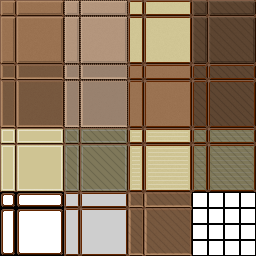
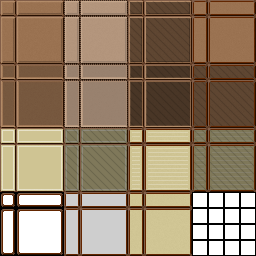
Refactor toggle button texture mapping: update locked and unpressed states, enhance hover support, and adjust JSON configuration for button visuals

Changed region(s): [[0.5, 0.0, 1.0, 0.5], [0.5, 0.75, 0.75, 1.0]]

diff --git a/gui_builder_app/app.py b/gui_builder_app/app.py
@@ -2161,21 +2161,24 @@ class GuiBuilderApp:
 
         if ent.tool == Tool.BUTTON_TOGGLE:
             mapping = ENTRY_TOOL_MODULES.get(ent.tool, {})
+
+            # Keys: base (pressed/on), unpressed (off), hover_base, hover_unpressed, pressed_locked, unpressed_locked
             if locked:
-                if bool(ent.active):
-                    return str(
-                        mapping.get("locked_pressed")
-                        or mapping.get("disabled")
-                        or mapping.get("on")
-                        or mapping.get("base")
-                        or ""
-                    )
-                return str(mapping.get("disabled") or mapping.get("base") or "")
+                return str((mapping.get("pressed_locked") if bool(ent.active) else mapping.get("unpressed_locked")) or mapping.get("base") or "")
+
             if disabled:
-                return str(mapping.get("disabled") or mapping.get("base") or "")
+                return str(mapping.get("unpressed_locked") or mapping.get("pressed_locked") or mapping.get("unpressed") or "")
+
             if bool(ent.active):
-                return str(mapping.get("on") or mapping.get("pressed") or mapping.get("base") or "")
-            return str(mapping.get("hover" if hovered else "base") or "")
+                # Active/pressed state
+                if hovered and mapping.get("hover_base") is not None:
+                    return str(mapping.get("hover_base") or "")
+                return str(mapping.get("base") or mapping.get("unpressed") or "")
+
+            # Not active (unpressed/off)
+            if hovered and mapping.get("hover_unpressed") is not None:
+                return str(mapping.get("hover_unpressed") or "")
+            return str(mapping.get("unpressed") or mapping.get("base") or "")
 
         # Non-buttons: no hover variants. (Optional locked variant via meta.)
         mapping = ENTRY_TOOL_MODULES.get(ent.tool) or {}
@@ -2891,7 +2894,8 @@ class GuiBuilderApp:
             return False
 
         modules = ENTRY_TOOL_MODULES.get(ent.tool) or {}
-        base_module = modules.get("base")
+        # Toggle buttons use 'unpressed' or 'base' as the base visual.
+        base_module = modules.get("base") if ent.tool != Tool.BUTTON_TOGGLE else (modules.get("unpressed") or modules.get("base"))
         if not base_module:
             return False
 
@@ -2913,14 +2917,15 @@ class GuiBuilderApp:
         Layout (each cell is the component's own w*h in pixels):
         - Standard button: base | locked
                          hover | locked_hover (usually same as locked)
-        - Toggle button:   off  | on
-                         hover | disabled
+                - Toggle button:   off        | on
+                                                 hover_*     | disabled (locked)
+                    Where hover_* resolves to hover_on or hover_off depending on current ent.active
 
         Missing variants fall back to base so the JS can use a consistent layout.
         """
 
         modules = ENTRY_TOOL_MODULES.get(ent.tool) or {}
-        base_module = modules.get("base")
+        base_module = modules.get("base") if ent.tool != Tool.BUTTON_TOGGLE else (modules.get("unpressed") or modules.get("base"))
         if not base_module:
             return None
 
@@ -2946,27 +2951,34 @@ class GuiBuilderApp:
             return out
 
         if ent.tool == Tool.BUTTON_TOGGLE:
-            hover_module = modules.get("hover") or base_module
-            on_module = modules.get("on") or modules.get("pressed") or base_module
-            disabled_module = modules.get("disabled") or modules.get("pressed_hover") or on_module
+            # Keys: base (pressed/on), unpressed (off), hover_base, hover_unpressed, pressed_locked, unpressed_locked
+            pressed_module = modules.get("base") or base_module
+            unpressed_module = base_module  # Already set to unpressed or base above
+            
+            # Hover depends on active state
+            hover_module = (modules.get("hover_base") if bool(ent.active) else modules.get("hover_unpressed")) or base_module
 
             meta = ent.meta if isinstance(ent.meta, dict) else {}
-            if bool(meta.get("locked", False)) and bool(ent.active):
-                disabled_module = modules.get("locked_pressed") or disabled_module
+            if bool(meta.get("locked", False)):
+                disabled_module = modules.get("pressed_locked") if bool(ent.active) else modules.get("unpressed_locked")
+            else:
+                # Fallback to any locked variant or pressed_module
+                disabled_module = modules.get("pressed_locked") or modules.get("unpressed_locked") or pressed_module
 
-            off_img = self._compose_entry_variant_image(atlas, ent, str(base_module))
-            if off_img is None:
+            # Block layout: unpressed (TL), hover (BL), pressed (TR), disabled (BR)
+            unpressed_img = self._compose_entry_variant_image(atlas, ent, str(unpressed_module))
+            if unpressed_img is None:
                 return None
-            hover_img = self._compose_entry_variant_image(atlas, ent, str(hover_module)) or off_img
-            on_img = self._compose_entry_variant_image(atlas, ent, str(on_module)) or off_img
-            disabled_img = self._compose_entry_variant_image(atlas, ent, str(disabled_module)) or on_img
+            hover_img = self._compose_entry_variant_image(atlas, ent, str(hover_module)) or unpressed_img
+            pressed_img = self._compose_entry_variant_image(atlas, ent, str(pressed_module)) or unpressed_img
+            disabled_img = self._compose_entry_variant_image(atlas, ent, str(disabled_module)) or pressed_img
 
-            w = int(off_img.width())
-            h = int(off_img.height())
+            w = int(unpressed_img.width())
+            h = int(unpressed_img.height())
             out = tk.PhotoImage(width=w * 2, height=h * 2)
-            out.tk.call(out, "copy", off_img, "-from", 0, 0, w, h, "-to", 0, 0)
+            out.tk.call(out, "copy", unpressed_img, "-from", 0, 0, w, h, "-to", 0, 0)
             out.tk.call(out, "copy", hover_img, "-from", 0, 0, w, h, "-to", 0, h)
-            out.tk.call(out, "copy", on_img, "-from", 0, 0, w, h, "-to", w, 0)
+            out.tk.call(out, "copy", pressed_img, "-from", 0, 0, w, h, "-to", w, 0)
             out.tk.call(out, "copy", disabled_img, "-from", 0, 0, w, h, "-to", w, h)
             return out
 
